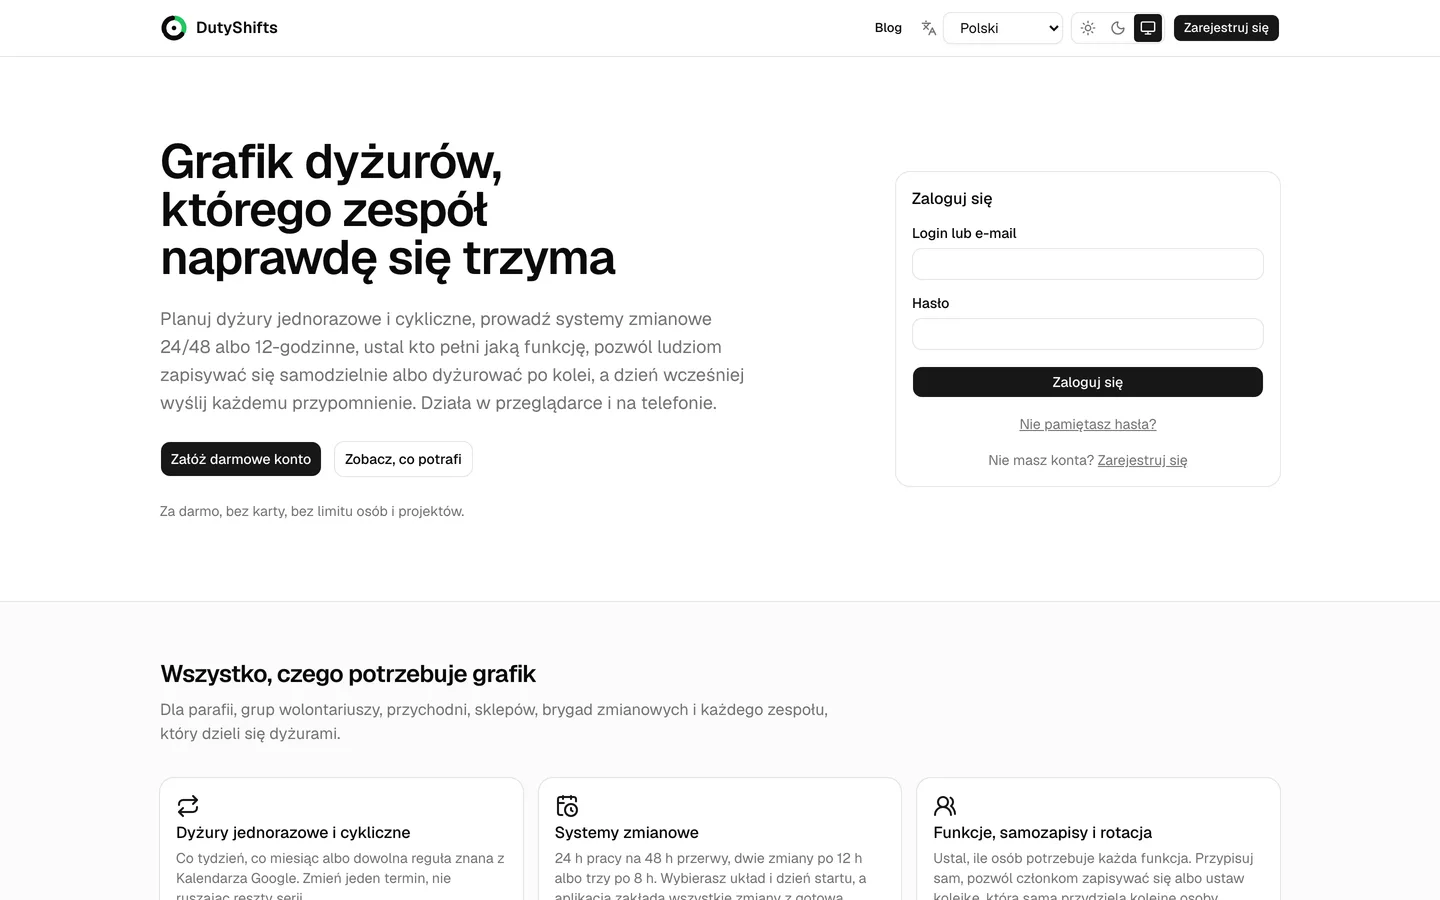
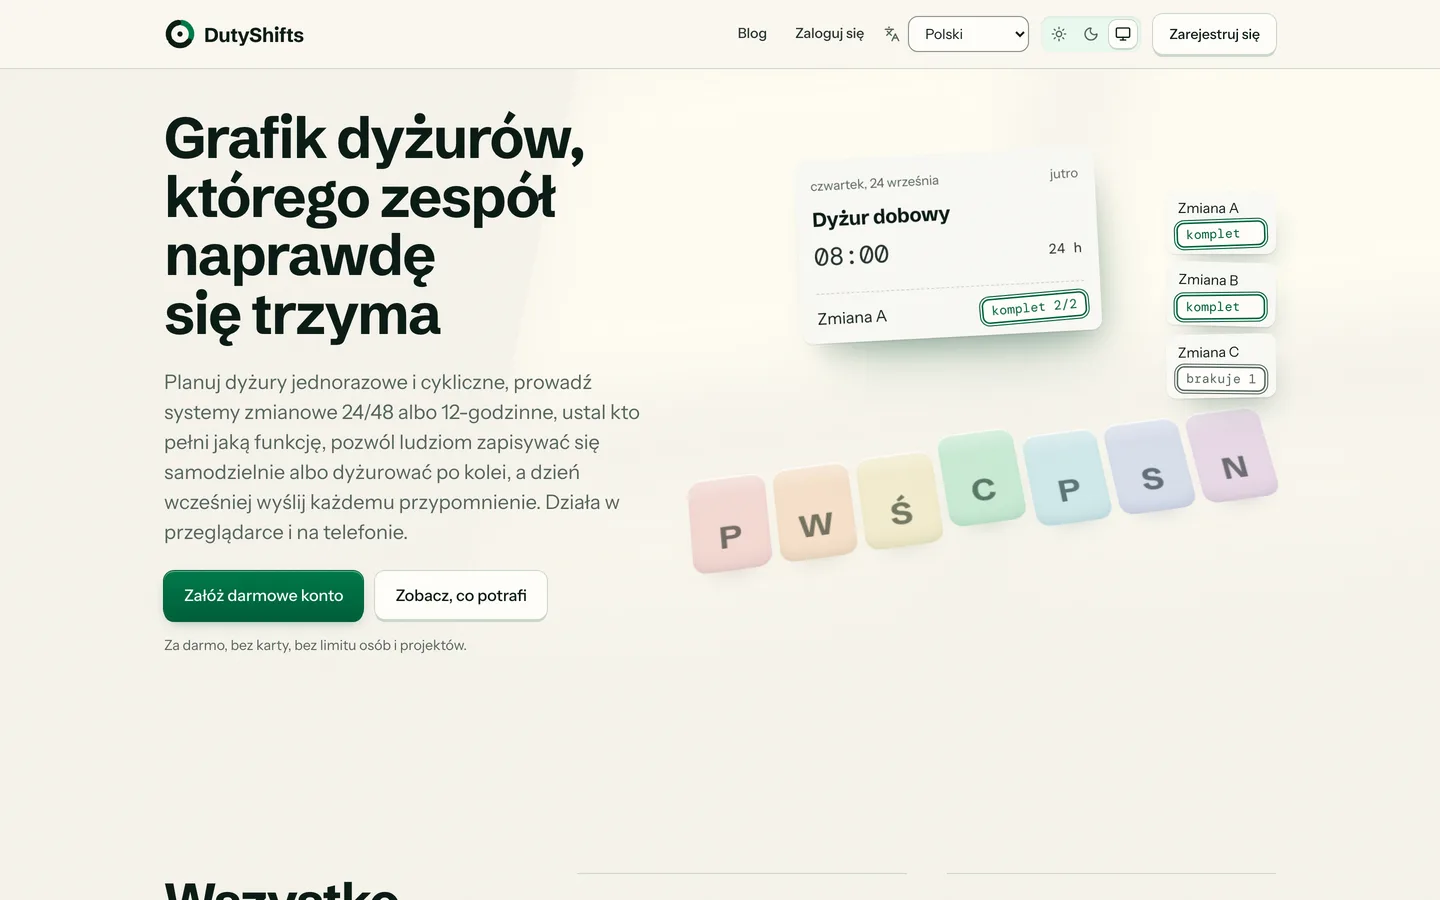
Use the redesigned DutyShifts screens and lead with its landing page
Claude-Session: https://claude.ai/code/session_01M9VAQjD4knzgGRiqdjPrrE

diff --git a/content/projects.ts b/content/projects.ts
@@ -283,7 +283,7 @@ export const productProjects: Project[] = [
     },
     media: {
       kind: "web",
-      desktop: "/projects/dutyshifts-01-desktop.webp",
+      desktop: "/projects/dutyshifts-03-desktop.webp",
       mobile: "/projects/dutyshifts-02-mobile.webp",
       url: "dutyshifts.com",
       screens: ["/projects/dutyshifts-02-mobile.webp", "/projects/dutyshifts-06-mobile.webp", "/projects/dutyshifts-05-mobile.webp"],
